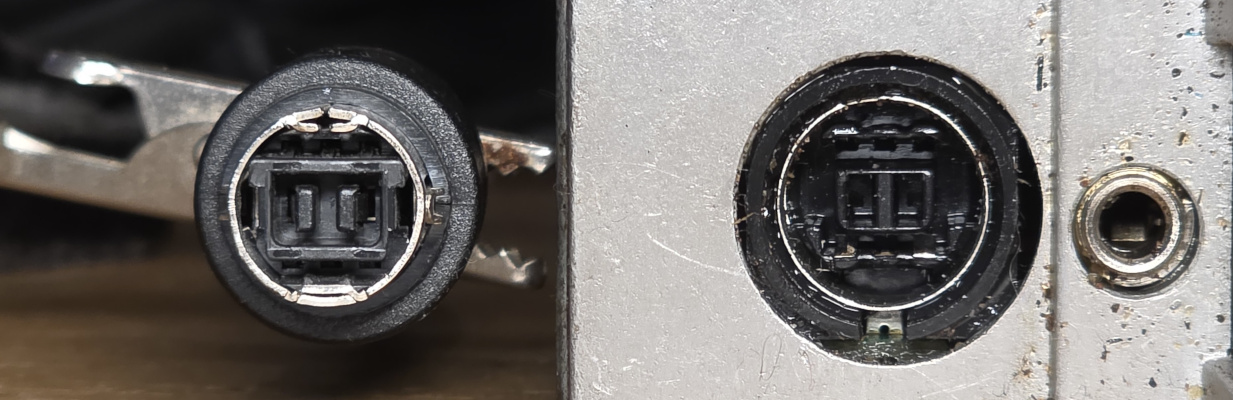
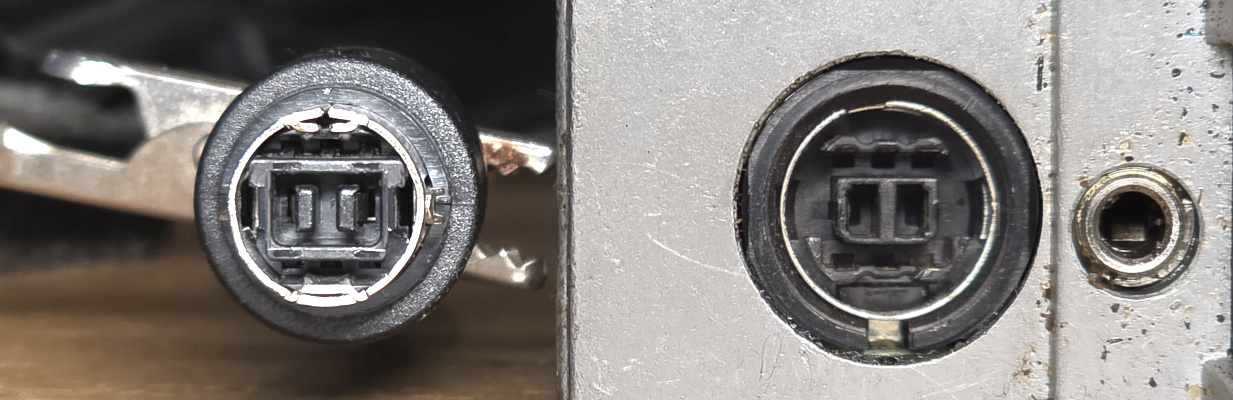
Corrected some Alpine Ai-NET information

diff --git a/guides/alpine-ai-net/alpine-ai-net.md b/guides/alpine-ai-net/alpine-ai-net.md
@@ -22,33 +22,29 @@ This github pages entry serves as the documentation leading up to the implementa
 
 ## The Ai-NET interface
 
-This documention only covers the 8 pin connector that appear as follows...
+This documention only covers the staggered 8 pin connector you see in this pinout:
 
 ![Ai-NET Male and Female connectors](ai-net%20connectors.jpg)
 
-... and all documentation from this point references looking into the connector on a device rather than the cable plug...
-
-![Ai-NET Pinout](ai-net%20pinout.jpg)
-
 ## The physical layer
 
-There are two pins used for communication, Ai-NET High and Ai-NET Low. These behave very similar to RS485 and CAN-BUS in that they are inverted reflections of each others behaviour. There are two states for this bus, dominant and recessive, with recessive being the default state.
+There are two pins used for communication, `Ai-NET +` and `Ai-NET -`. These behave very similar to RS485 and CAN-BUS in that they are inverted reflections of each others behaviour. There are two states for this bus, dominant and recessive, with recessive being the default state.
 
-| State     | Ai-NET High | Ai-NET Low |
+| State     | Ai-NET +    | Ai-NET -   |
 | --------- | ----------- | -----------|
 | Recessive | 2.0~ Volts  | 3.0~ Volts |
 | Dominant  | 5.0~ Volts  | 0.0~ Volts |
 
 These voltages are guidelines, they can *and do* fluctuate, what's important is the following:
 
-* All voltages are relative to chassis ground
+* To signal recessive, `Ai-NET +` must be a lower voltage than `Ai-NET -`
+* To signal dominant, `Ai-NET +` must be a higher voltage than `Ai-NET -`
 * Voltages should not exceed 5 Volts. Above 5.5 Volts can damage hardware
-* To signal recessive, Ai-NET High must be a lower voltage than Ai-NET Low
-* To signal dominant, Ai-NET High must be a higher voltage than Ai-NET Low
+* All voltages are relative to chassis ground not audio or any other ground
 
-The pull-ups to 2.0 and 3.0 volts (for High and Low respectively) are done with weak pull-ups (high ohm resistors) for recessive, with signalling to dominant done more aggressively. See the example circuit below. 
+The recessive state voltages are achieved by weak pull-up resistors in a potential divider set up, one to 5V, another to ground. The resistors vary between `Ai-NET +` and `Ai-NET -` but the principle is the same, holding the floating voltage to either 2.0 or 3.0 volts. Dominant signals are achieved by applying a strong pull-up (to `Ai-NET +`) and strong pull-down (to `Ai-NET -`) at the same time. See the example circuit below for more information.
 
-Although you can "cheat" and just pull Ai-NET Low to ground to signal dominant, this is not advised as it ignores the fault-tolerance of having mirrored signals. You should however implement a circuit like the following:
+Although you can "cheat" and just pull `Ai-NET -` to ground to signal dominant, this is not advised as it ignores the fault-tolerance of having mirrored signals. You should however implement a circuit like the following:
 
 ![Ai-NET Interface Circuit](ai-net%20circuit.jpg)
 
